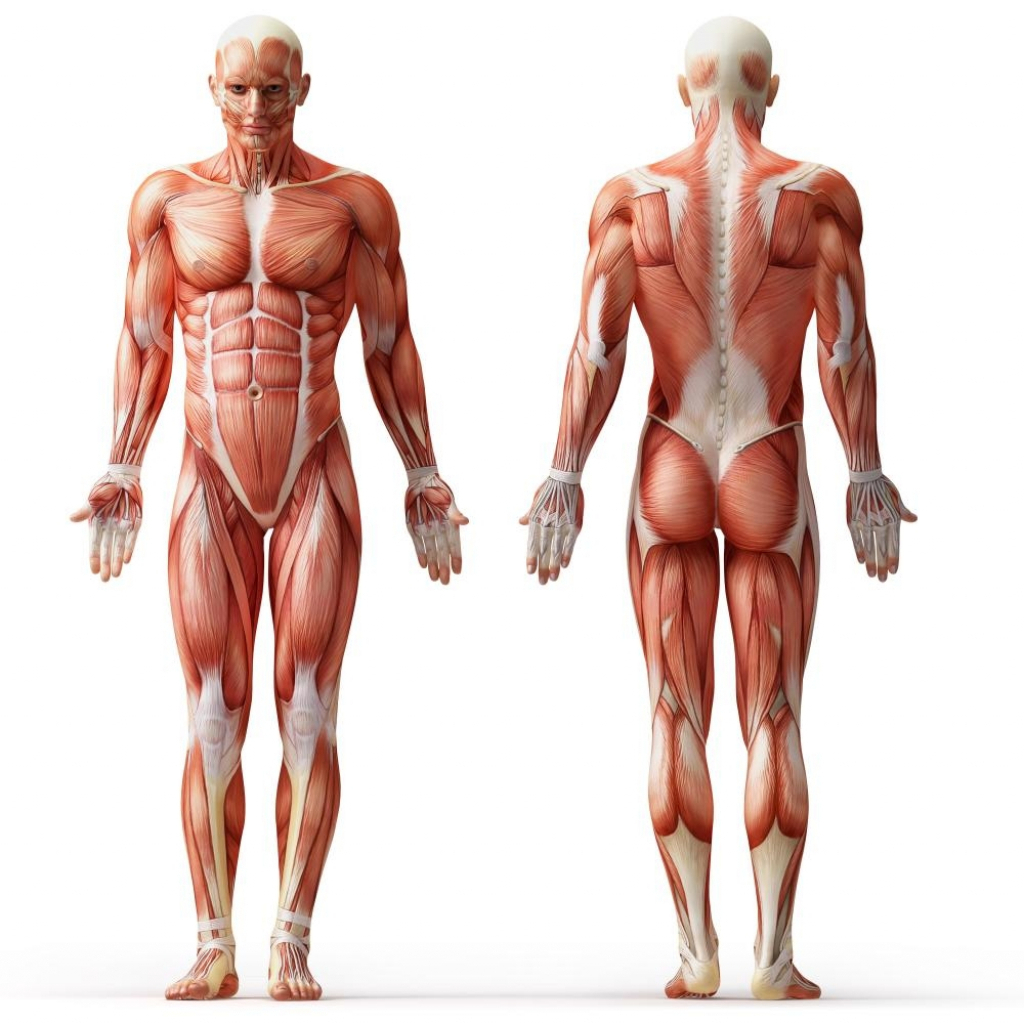
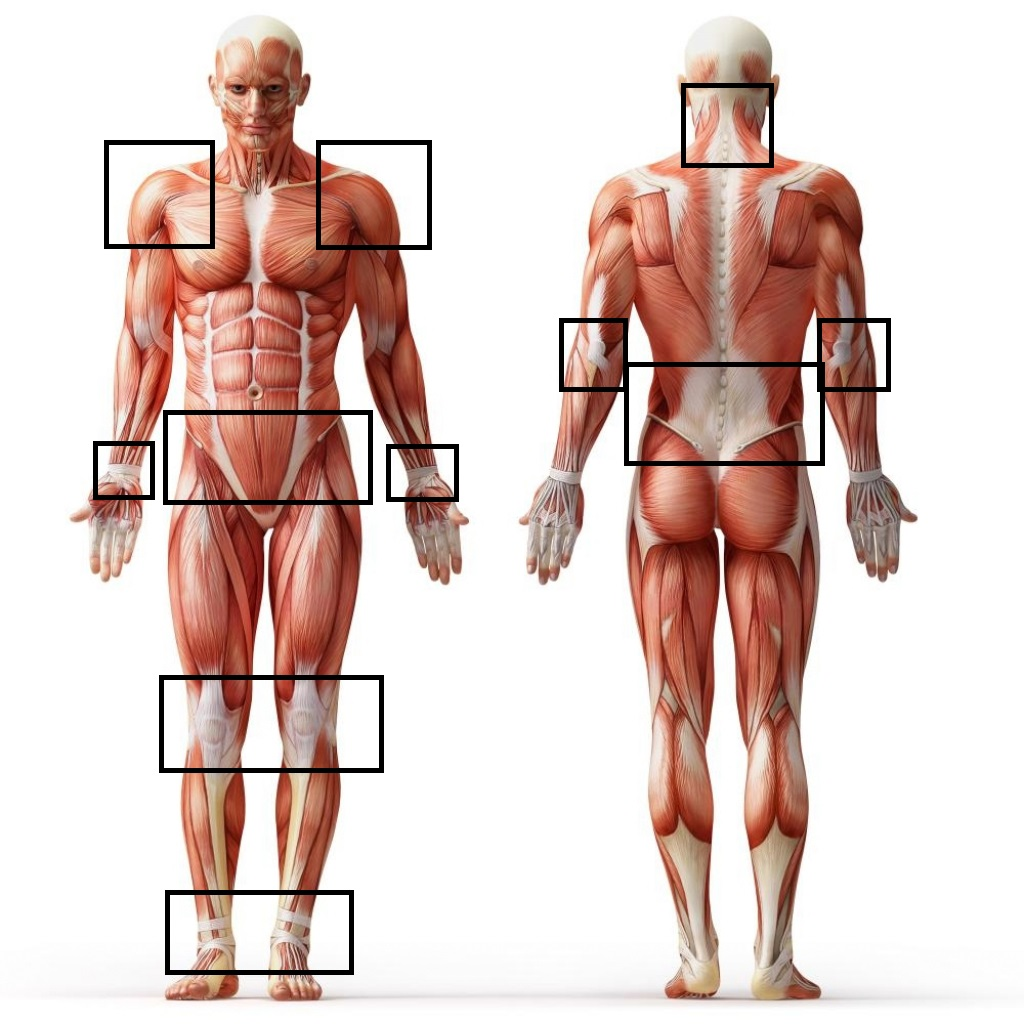
add outlines

diff --git a/HTML/painInfo/chooseBodyPart.html b/HTML/painInfo/chooseBodyPart.html
@@ -76,20 +76,20 @@
       <img src="body diagram.jpg" usemap="#image-map">
 
       <map name="image-map">
-          <area target="" id=knees alt="Knees" title="Knees" onclick="setHREF()" coords="350,756,173,699" shape="rect">
-          <area target="" id=lowback ="Lower Back" onclick="setHREF()" title="Lower Back" href="bodyParts/lowerBack.html" coords="812,431,635,333" shape="rect">
-          <area target="" id=ankle alt="Ankles" onclick="setHREF()" title="Ankles" href="bodyParts/ankles.html" coords="334,949,183,917" shape="rect">
-          <area target="" id=wrist alt="Wrist" onclick="setHREF()" title="Wrist" href="bodyParts/wrist.html" coords="94,452,148,485" shape="rect">
-          <area target="" id=wrist2 alt="Wrist" onclick="setHREF()" title="Wrist" href="bodyParts/wrist.html" coords="386,455,457,489" shape="rect">
-          <area target="" id=backneck alt="Back of Neck" onclick="setHREF()" title="Back of Neck" href="bodyParts/backOfNeck.html" coords="686,101,770,149" shape="rect">
+          <area target="" class="bodypart" id=knees alt="Knees" title="Knees" onclick="setHREF()" coords="161,678,382,770" shape="rect">
+          <area target="" class="bodypart" id=lowback ="Lower Back" onclick="setHREF()" title="Lower Back" href="bodyParts/lowerBack.html" coords="629,366,822,464" shape="rect">
+          <area target="" class="bodypart" id=ankle alt="Ankles" onclick="setHREF()" title="Ankles" href="bodyParts/ankles.html" coords="168,892,352,972" shape="rect">
+          <area target="" class="bodypart" id=wrist alt="Wrist" onclick="setHREF()" title="Wrist" href="bodyParts/wrist.html" coords="392,446,456,497" shape="rect">
+          <area target="" class="bodypart" id=wrist2 alt="Wrist" onclick="setHREF()" title="Wrist" href="bodyParts/wrist.html" coords="95,442,155,497" shape="rect">
+          <area target="" class="bodypart" id=backneck alt="Back of Neck" onclick="setHREF()" title="Back of Neck" href="bodyParts/backOfNeck.html" coords="680,84,773,164" shape="rect">
           <area target="" id=throat alt="Throat" title="Throat" coords="226,130,247,149,269,151,292,128,295,144,287,170,272,186,246,188,228,160,227,147,225,129" shape="poly">
           <area target="" id=shoulderblade alt="Shoulder Blades" title="Shoulder Blades" coords="637,188,817,286" shape="rect">
-          <area target="" id=shoulder alt="Shoulder (Rotator Cuff)" onclick="setHREF()" title="Shoulder (Rotator Cuff)" href="bodyParts/rotatorCuff.html" coords="106,159,200,236" shape="rect">
-          <area target="" id=shoulder2 alt="Shoulder (Rotator Cuff)" onclick="setHREF()" title="Shoulder (Rotator Cuff)" href="bodyParts/rotatorCuff.html" coords="332,162,419,252" shape="rect">
-          <area target="" id=hips alt="Hips" onclick="setHREF()" title="Hips" href="bodyParts/hips.html" coords="166,408,368,494" shape="rect">
-          <area target="" id=elbow alt="Elbow" onclick="setHREF()" title="Elbow" href="bodyParts/elbow.html" coords="629,384,559,314" shape="rect">
-          <area target="" id=elbow2 alt="Elbow" onclick="setHREF()" title="Elbow" href="bodyParts/elbow.html" coords="815,320,886,385" shape="rect">
-          <area target="" id=heel alt="Heels" onclick="setHREF()" title="Heels" href="bodyParts/heels.html" coords="649,930,842,996" shape="rect">
+          <area target="" class="bodypart" id=shoulder alt="Shoulder (Rotator Cuff)" onclick="setHREF()" title="Shoulder (Rotator Cuff)" href="bodyParts/rotatorCuff.html" coords="108,142,213,246" shape="rect">
+          <area target="" class="bodypart" id=shoulder2 alt="Shoulder (Rotator Cuff)" onclick="setHREF()" title="Shoulder (Rotator Cuff)" href="bodyParts/rotatorCuff.html" coords="319,143,428,248" shape="rect">
+          <area target="" class="bodypart" id=hips alt="Hips" onclick="setHREF()" title="Hips" href="bodyParts/hips.html" coords="165,413,373,501" shape="rect">
+          <area target="" class="bodypart" id=elbow alt="Elbow" onclick="setHREF()" title="Elbow" href="bodyParts/elbow.html" coords="822,320,890,387" shape="rect">
+          <area target="" class="bodypart" id=elbow2 alt="Elbow" onclick="setHREF()" title="Elbow" href="bodyParts/elbow.html" coords="563,322,625,386" shape="rect">
+          <area target="" class="bodypart" id=heel alt="Heels" onclick="setHREF()" title="Heels" href="bodyParts/heels.html" coords="649,930,842,996" shape="rect">
       </map>
     </div>
 

diff --git a/css/project.css b/css/project.css
@@ -375,3 +375,10 @@ text {
 .ExDetail-descriptionStep {
     margin-bottom: .8em;
 }
+
+.bodypart {
+	display: block;
+	color: yellow;
+	outline-style: solid;
+	outline-color: black;
+}
